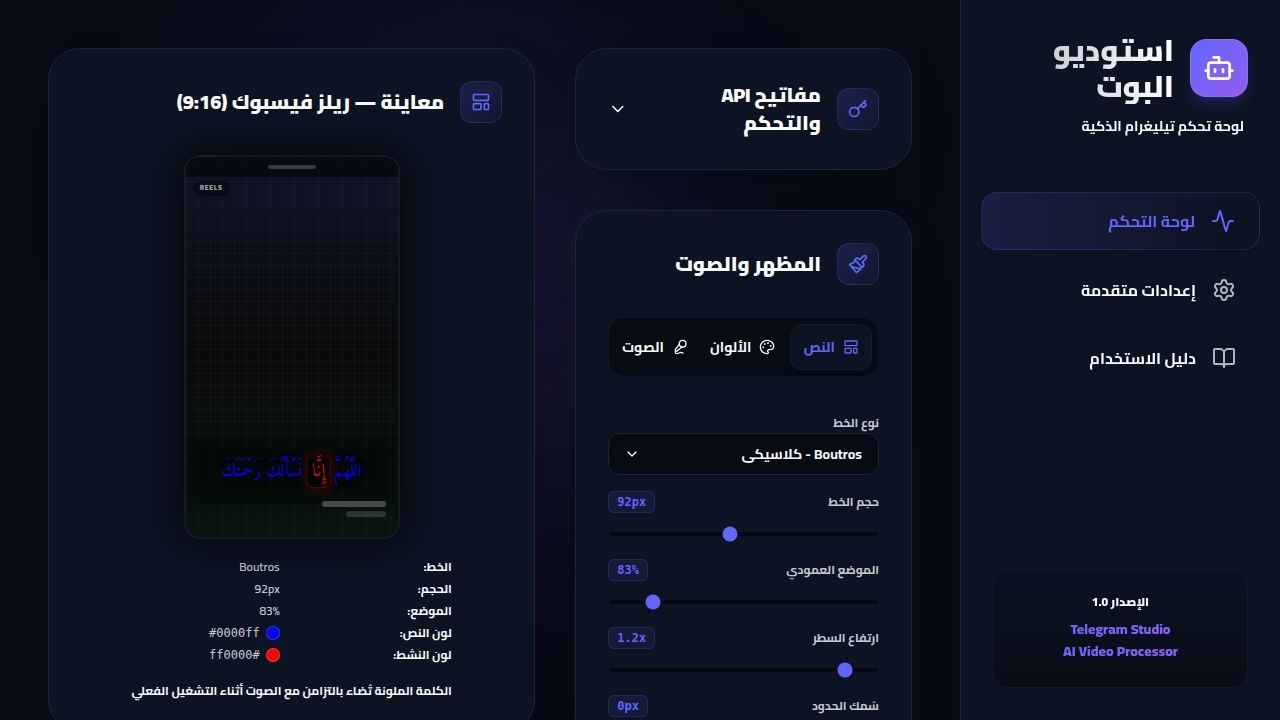
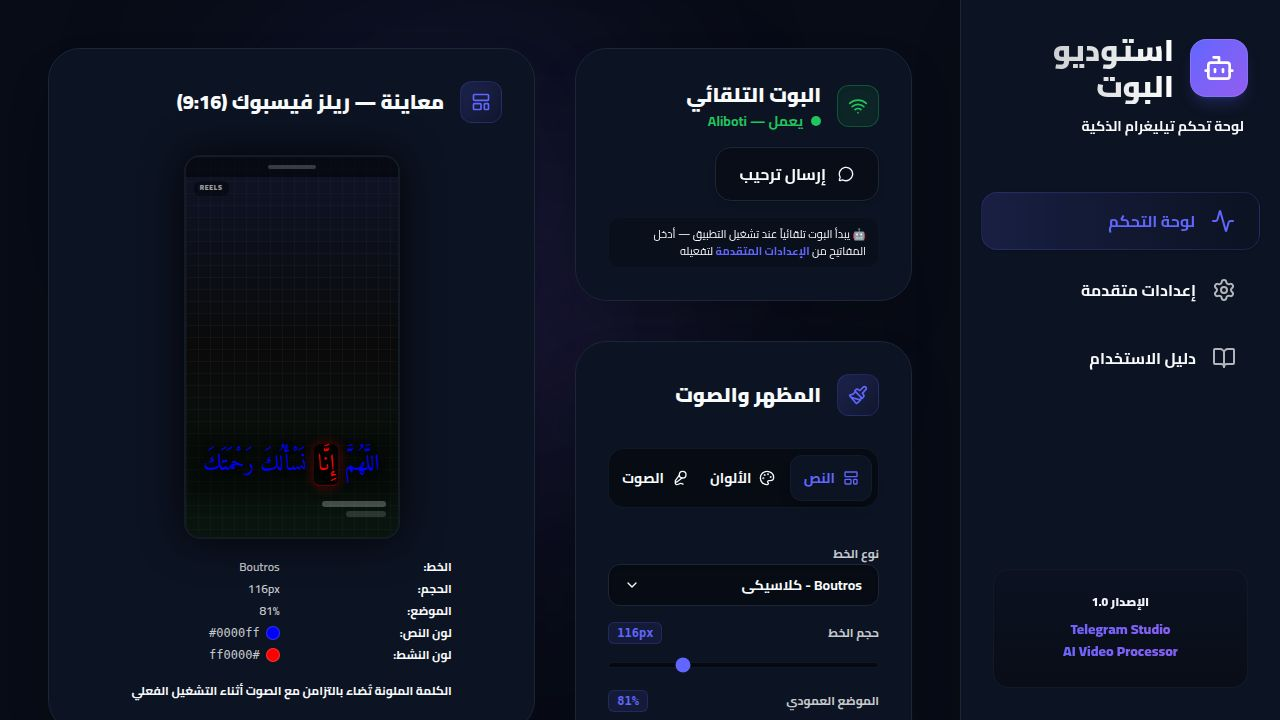
Add mute functionality for video and dua audio with adjustable volume levels
Update API schema, bot manager, and UI components to introduce mute toggles and fine-grained volume control for original video and dua audio, with UI adjustments in both dashboard and advanced settings pages.

Replit-Commit-Author: Agent
Replit-Commit-Session-Id: fc32e5bb-7f97-4ff4-852c-6ce8e2b588b1
Replit-Commit-Checkpoint-Type: full_checkpoint
Replit-Commit-Event-Id: 589eb3da-947d-43ce-961f-fd34c1b96044
Replit-Commit-Screenshot-Url: https://storage.googleapis.com/screenshot-production-us-central1/74d1ebba-0478-4c71-b9b5-f0145c4f2650/fc32e5bb-7f97-4ff4-852c-6ce8e2b588b1/IZsPmDU
Replit-Helium-Checkpoint-Created: true

diff --git a/artifacts/telegram-studio/src/pages/dashboard.tsx b/artifacts/telegram-studio/src/pages/dashboard.tsx
@@ -3,7 +3,7 @@ import { useGetSettings, useUpdateSettings, useGetBotStatus } from "@workspace/a
 import type { AppSettings, BotStatus, LogEntry } from "@workspace/api-client-react/src/generated/api.schemas";
 import { PremiumCard, PremiumButton, Slider, ColorPicker, Select, Switch } from "@/components/ui-elements";
 import { useToast } from "@/hooks/use-toast";
-import { Activity, Paintbrush, LayoutTemplate, Palette, Mic2, ChevronDown, RefreshCw, Bot, Volume2, Loader2, Share2, FileText, Send, MessageCircle, Wifi } from "lucide-react";
+import { Activity, Paintbrush, LayoutTemplate, Palette, Mic2, ChevronDown, RefreshCw, Bot, Volume2, VolumeX, Loader2, Share2, FileText, Send, MessageCircle, Wifi } from "lucide-react";
 import { cn } from "@/lib/utils";
 
 function BotStatusMiniCard({ status, onSendWelcome, isSendingWelcome }: { status?: BotStatus; onSendWelcome: () => void; isSendingWelcome: boolean }) {
@@ -411,33 +411,65 @@ function DesignSettingsCard({ settings, setSettings, onSave, isSaving }: any) {
                <Switch label="تخفيض سرعة القراءة (لزيادة الوضوح)" checked={settings.ttsSpeed} onChange={(v: boolean) => setSettings({...settings, ttsSpeed: v})} />
              </div>
 
-             <div className="pt-3 border-t border-border/50 space-y-3">
+             <div className="pt-3 border-t border-border/50 space-y-4">
                <p className="text-xs font-bold text-foreground/70 flex items-center gap-1.5">
                  <Volume2 className="w-3.5 h-3.5 text-primary" />
                  التحكم في مستوى الصوت
                </p>
-               <Slider
-                 label="صوت الدعاء"
-                 min={50}
-                 max={200}
-                 step={5}
-                 value={settings.duaaVolume ?? 120}
-                 onChange={(v: number) => setSettings({...settings, duaaVolume: v})}
-                 unit="%"
-               />
-               <Slider
-                 label="صوت الفيديو الأصلي"
-                 min={0}
-                 max={150}
-                 step={5}
-                 value={settings.originalVolume ?? 90}
-                 onChange={(v: number) => setSettings({...settings, originalVolume: v})}
-                 unit="%"
-               />
+
+               {/* Duaa volume + mute */}
+               <div className="space-y-1.5">
+                 <div className="flex items-center justify-between">
+                   <span className="text-xs text-foreground/60">🤲 صوت الدعاء</span>
+                   <button
+                     onClick={() => setSettings({...settings, muteDuaa: !(settings.muteDuaa ?? false)})}
+                     className={cn(
+                       "flex items-center gap-1 px-2 py-1 rounded-lg text-[11px] font-bold transition-all border",
+                       (settings.muteDuaa ?? false)
+                         ? "bg-red-500/20 border-red-500/40 text-red-400"
+                         : "bg-black/30 border-border/40 text-muted-foreground hover:text-foreground"
+                     )}
+                   >
+                     {(settings.muteDuaa ?? false) ? <><VolumeX className="w-3 h-3" /> مكتوم</> : <><Volume2 className="w-3 h-3" /> كتم</>}
+                   </button>
+                 </div>
+                 <Slider
+                   label=""
+                   min={0} max={300} step={5}
+                   value={settings.duaaVolume ?? 120}
+                   onChange={(v: number) => setSettings({...settings, duaaVolume: v})}
+                   unit="%" disabled={settings.muteDuaa ?? false}
+                 />
+               </div>
+
+               {/* Original video volume + mute */}
+               <div className="space-y-1.5">
+                 <div className="flex items-center justify-between">
+                   <span className="text-xs text-foreground/60">🎥 صوت الفيديو الأصلي</span>
+                   <button
+                     onClick={() => setSettings({...settings, muteOriginal: !(settings.muteOriginal ?? false)})}
+                     className={cn(
+                       "flex items-center gap-1 px-2 py-1 rounded-lg text-[11px] font-bold transition-all border",
+                       (settings.muteOriginal ?? false)
+                         ? "bg-red-500/20 border-red-500/40 text-red-400"
+                         : "bg-black/30 border-border/40 text-muted-foreground hover:text-foreground"
+                     )}
+                   >
+                     {(settings.muteOriginal ?? false) ? <><VolumeX className="w-3 h-3" /> مكتوم</> : <><Volume2 className="w-3 h-3" /> كتم</>}
+                   </button>
+                 </div>
+                 <Slider
+                   label=""
+                   min={0} max={200} step={5}
+                   value={settings.originalVolume ?? 90}
+                   onChange={(v: number) => setSettings({...settings, originalVolume: v})}
+                   unit="%" disabled={settings.muteOriginal ?? false}
+                 />
+               </div>
+
                <div className="text-[11px] text-muted-foreground/60 bg-black/20 rounded-xl px-3 py-2 border border-border/30">
-                 الدعاء: <span className="text-primary font-bold">{settings.duaaVolume ?? 120}%</span>
-                 &nbsp;·&nbsp; الأصلي: <span className="text-foreground/70 font-bold">{settings.originalVolume ?? 90}%</span>
-                 &nbsp;·&nbsp; الفرق: <span className="text-green-400 font-bold">+{(settings.duaaVolume ?? 120) - (settings.originalVolume ?? 90)}%</span>
+                 الدعاء: <span className="text-primary font-bold">{(settings.muteDuaa ?? false) ? "مكتوم" : `${settings.duaaVolume ?? 120}%`}</span>
+                 &nbsp;·&nbsp; الأصلي: <span className="text-foreground/70 font-bold">{(settings.muteOriginal ?? false) ? "مكتوم" : `${settings.originalVolume ?? 90}%`}</span>
                </div>
              </div>
 

diff --git a/artifacts/telegram-studio/src/pages/advanced-settings.tsx b/artifacts/telegram-studio/src/pages/advanced-settings.tsx
@@ -3,7 +3,7 @@ import { useGetSettings, useUpdateSettings } from "@workspace/api-client-react";
 import type { AppSettings } from "@workspace/api-client-react/src/generated/api.schemas";
 import { PremiumCard, PremiumButton, Slider, Select, Switch } from "@/components/ui-elements";
 import { useToast } from "@/hooks/use-toast";
-import { Video, SlidersHorizontal, Key, ChevronDown, Eye, EyeOff, Loader2, CheckCircle2, XCircle } from "lucide-react";
+import { Video, SlidersHorizontal, Key, ChevronDown, Eye, EyeOff, Loader2, CheckCircle2, XCircle, Volume2, VolumeX } from "lucide-react";
 import { cn } from "@/lib/utils";
 
 function KeyInput({ label, placeholder, value, onChange, hint }: { label: string; placeholder: string; value: string; onChange: (v: string) => void; hint?: string }) {
@@ -391,6 +391,77 @@ export function AdvancedSettings() {
           </div>
         </div>
       </div>
+
+      {/* ── Volume Control ── */}
+      <PremiumCard title="التحكم بمستوى الصوت" icon={Volume2}>
+        <div className="grid grid-cols-1 md:grid-cols-2 gap-8">
+          {/* Original video audio */}
+          <div className="space-y-4">
+            <div className="flex items-center justify-between">
+              <span className="text-sm font-bold text-foreground">🎥 صوت الفيديو الأصلي</span>
+              <button
+                onClick={() => handleSettingChange({...settings, muteOriginal: !(settings.muteOriginal ?? false)})}
+                className={cn(
+                  "flex items-center gap-1.5 px-3 py-1.5 rounded-lg text-xs font-bold transition-all border",
+                  (settings.muteOriginal ?? false)
+                    ? "bg-red-500/20 border-red-500/40 text-red-400 hover:bg-red-500/30"
+                    : "bg-green-500/10 border-green-500/30 text-green-400 hover:bg-green-500/20"
+                )}
+              >
+                {(settings.muteOriginal ?? false)
+                  ? <><VolumeX className="w-3.5 h-3.5" /> مكتوم</>
+                  : <><Volume2 className="w-3.5 h-3.5" /> مفعّل</>
+                }
+              </button>
+            </div>
+            <Slider
+              label=""
+              min={0} max={200} step={5}
+              value={settings.originalVolume ?? 90}
+              onChange={(v: number) => handleSettingChange({...settings, originalVolume: v})}
+              unit="%"
+              disabled={settings.muteOriginal ?? false}
+            />
+            <p className="text-[10px] text-muted-foreground/50 leading-relaxed">
+              النسبة الحالية: <span className="text-primary font-bold">{settings.muteOriginal ? "مكتوم" : `${settings.originalVolume ?? 90}%`}</span>
+              {" · "}100% = الصوت الأصلي · أكثر = تضخيم · أقل = تخفيف
+            </p>
+          </div>
+
+          {/* Duaa TTS audio */}
+          <div className="space-y-4">
+            <div className="flex items-center justify-between">
+              <span className="text-sm font-bold text-foreground">🤲 صوت الدعاء (TTS)</span>
+              <button
+                onClick={() => handleSettingChange({...settings, muteDuaa: !(settings.muteDuaa ?? false)})}
+                className={cn(
+                  "flex items-center gap-1.5 px-3 py-1.5 rounded-lg text-xs font-bold transition-all border",
+                  (settings.muteDuaa ?? false)
+                    ? "bg-red-500/20 border-red-500/40 text-red-400 hover:bg-red-500/30"
+                    : "bg-green-500/10 border-green-500/30 text-green-400 hover:bg-green-500/20"
+                )}
+              >
+                {(settings.muteDuaa ?? false)
+                  ? <><VolumeX className="w-3.5 h-3.5" /> مكتوم</>
+                  : <><Volume2 className="w-3.5 h-3.5" /> مفعّل</>
+                }
+              </button>
+            </div>
+            <Slider
+              label=""
+              min={0} max={300} step={5}
+              value={settings.duaaVolume ?? 120}
+              onChange={(v: number) => handleSettingChange({...settings, duaaVolume: v})}
+              unit="%"
+              disabled={settings.muteDuaa ?? false}
+            />
+            <p className="text-[10px] text-muted-foreground/50 leading-relaxed">
+              النسبة الحالية: <span className="text-primary font-bold">{settings.muteDuaa ? "مكتوم" : `${settings.duaaVolume ?? 120}%`}</span>
+              {" · "}100% = الصوت الطبيعي · أكثر = تقوية صوت الدعاء
+            </p>
+          </div>
+        </div>
+      </PremiumCard>
 
       {/* ── Processing Settings ── */}
       <div className="grid grid-cols-1 md:grid-cols-2 gap-8">

diff --git a/artifacts/api-server/src/lib/bot-manager.ts b/artifacts/api-server/src/lib/bot-manager.ts
@@ -36,6 +36,8 @@ export interface AppSettings {
   geminiModel: string;
   originalVolume: number;
   duaaVolume: number;
+  muteOriginal: boolean;
+  muteDuaa: boolean;
   wordEffect: string;
   transitionEffect: string;
   transitionDuration: number;
@@ -65,6 +67,8 @@ export const defaultSettings: AppSettings = {
   geminiModel: "auto",
   originalVolume: 90,
   duaaVolume: 120,
+  muteOriginal: false,
+  muteDuaa: false,
   wordEffect: "random",
   transitionEffect: "random",
   transitionDuration: 0.5,
@@ -2592,8 +2596,8 @@ async function processVideoWithText(
   let filterComplex: string;
   let audioMap: string;
 
-  const origVol = ((settings.originalVolume ?? 60) / 100).toFixed(3);
-  const duaaVol = ((settings.duaaVolume ?? 120) / 100).toFixed(3);
+  const origVol = (settings.muteOriginal ? 0 : (settings.originalVolume ?? 90) / 100).toFixed(3);
+  const duaaVol = (settings.muteDuaa    ? 0 : (settings.duaaVolume    ?? 120) / 100).toFixed(3);
 
   if (hasAudio) {
     filterComplex = [